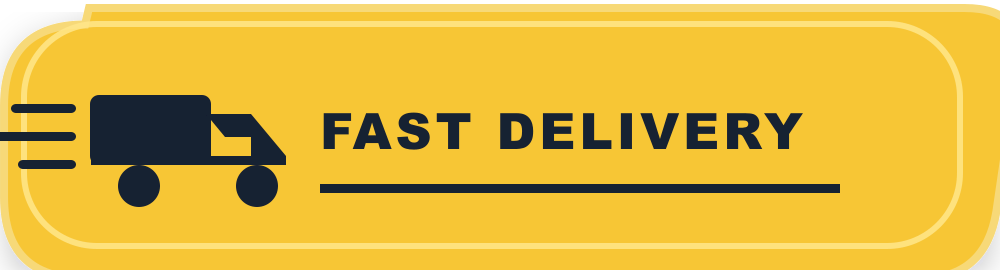
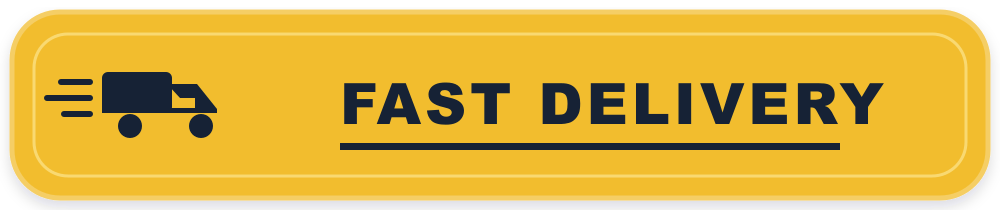
Clean up listing shipping badges

diff --git a/app/api/ebay/list-product/route.ts b/app/api/ebay/list-product/route.ts
@@ -2119,12 +2119,12 @@ export async function POST(req: NextRequest) {
   // New listings are blocked above if they have fewer than MIN_LISTING_IMAGES.
   const imageQualityWarning = filteredImages.length < 2
 
-  const fallbackListingImage = `${siteUrl}/api/image/fallback?asin=${encodeURIComponent(asin)}&title=${encodeURIComponent(listingTitle)}&badge=v3`
+  const fallbackListingImage = `${siteUrl}/api/image/fallback?asin=${encodeURIComponent(asin)}&title=${encodeURIComponent(listingTitle)}&badge=v4`
   const primarySourceImage = filteredImages[0] || validatedAmazon.imageUrl || fallbackListingImage
   const primaryProxyImage = primarySourceImage.includes('/api/image/')
     ? primarySourceImage
     : `${siteUrl}/api/image/proxy?url=${encodeURIComponent(primarySourceImage)}`
-  const badgeUrl = `${siteUrl}/api/image/badge?url=${encodeURIComponent(primaryProxyImage)}&asin=${encodeURIComponent(asin)}&title=${encodeURIComponent(listingTitle)}&badge=v3`
+  const badgeUrl = `${siteUrl}/api/image/badge?url=${encodeURIComponent(primaryProxyImage)}&asin=${encodeURIComponent(asin)}&title=${encodeURIComponent(listingTitle)}&badge=v4`
   const cleanDescriptionPrimary = primarySourceImage.includes('/api/image/')
     ? primarySourceImage
     : `${siteUrl}/api/image/proxy?url=${encodeURIComponent(primarySourceImage)}`

diff --git a/app/api/image/badge/route.ts b/app/api/image/badge/route.ts
@@ -206,10 +206,10 @@ function buildFallbackSvg() {
 async function compositeBadge(source: sharp.Sharp, width: number, height: number, variant: BadgeVariant) {
   if (variant === 'none') return source.jpeg({ quality: 92 }).toBuffer()
 
-  const badgeWidth = Math.max(240, Math.min(430, Math.round(width * 0.31)))
+  const badgeWidth = Math.max(170, Math.min(300, Math.round(width * 0.22)))
   const badge = await prepareBadgeAsset(variant, badgeWidth)
-  const insetX = Math.max(28, Math.round(width * 0.04))
-  const insetY = Math.max(30, Math.round(height * 0.05))
+  const insetX = Math.max(22, Math.round(width * 0.032))
+  const insetY = Math.max(18, Math.round(height * 0.032))
   const badgeArea = {
     left: insetX,
     top: Math.max(insetY, height - badge.height - insetY),

diff --git a/app/api/image/fallback/route.ts b/app/api/image/fallback/route.ts
@@ -197,7 +197,7 @@ export async function GET(req: NextRequest) {
 
     let output = sharp(Buffer.from(svg)).jpeg({ quality: 92 })
     if (variant !== 'none') {
-      const badge = await prepareBadgeAsset(variant, 360)
+      const badge = await prepareBadgeAsset(variant, 280)
       output = sharp(Buffer.from(svg))
         .composite([
           {

diff --git a/COLLAB.md b/COLLAB.md
@@ -26,6 +26,7 @@ _Clear this section when done._
 
 | Date | Agent | What Was Done | Key Files |
 |------|-------|---------------|-----------|
+| 2026-05-26 | Codex | Cleaned up the live shipping badge after Mike reviewed the yellow `Fast Delivery` label on eBay. Badge assets were simplified, the live overlay was reduced to a smaller 170-300px range, padding was tightened, fallback badge size was reduced, and the cache key was bumped to `badge=v4` for new listings. | `public/badges/*`, `app/api/image/badge/route.ts`, `app/api/image/fallback/route.ts`, `app/api/ebay/list-product/route.ts`, `COLLAB.md` |
 | 2026-05-26 | Codex | Fixed live eBay badge rendering after Mike caught missing-font square glyphs on new listings. Badges are now pre-rendered PNG assets in `public/badges` and the image routes resize/composite those assets instead of rendering SVG text at request time. The listing image URL cache key was bumped to `badge=v3`, and the content-area skip was removed so only the intentional 20% no-badge bucket suppresses labels. | `app/api/image/badge/route.ts`, `app/api/image/fallback/route.ts`, `app/api/ebay/list-product/route.ts`, `public/badges/*`, `COLLAB.md` |
 | 2026-05-26 | Codex | Updated the eBay listing image badge system again to use Mike's three preferred badge directions: dark `Free Shipping`, yellow `Fast Delivery`, and white `Ships Fast`. The old generic text-tag look was replaced in both real product image badges and fallback listing images, while keeping the 20% no-badge test bucket and bottom-left placement. | `app/api/image/badge/route.ts`, `app/api/image/fallback/route.ts`, `COLLAB.md` |
 | 2026-05-26 | Codex | Reworked the eBay listing image badge system to look less templated/dropshippy. The old giant red/yellow PNG stamp is replaced by small premium SVG badge overlays, deterministic per-ASIN rotation across four variants (`Free 2-4 Day Shipping`, `Fast Delivery`, `Ships Fast`, `Free Shipping`), and a 20% no-badge bucket. Badges stay bottom-left with clean padding and a cache-busting `badge=v2` URL param for new listings. | `app/api/image/badge/route.ts`, `app/api/image/fallback/route.ts`, `app/api/ebay/list-product/route.ts`, `COLLAB.md` |
